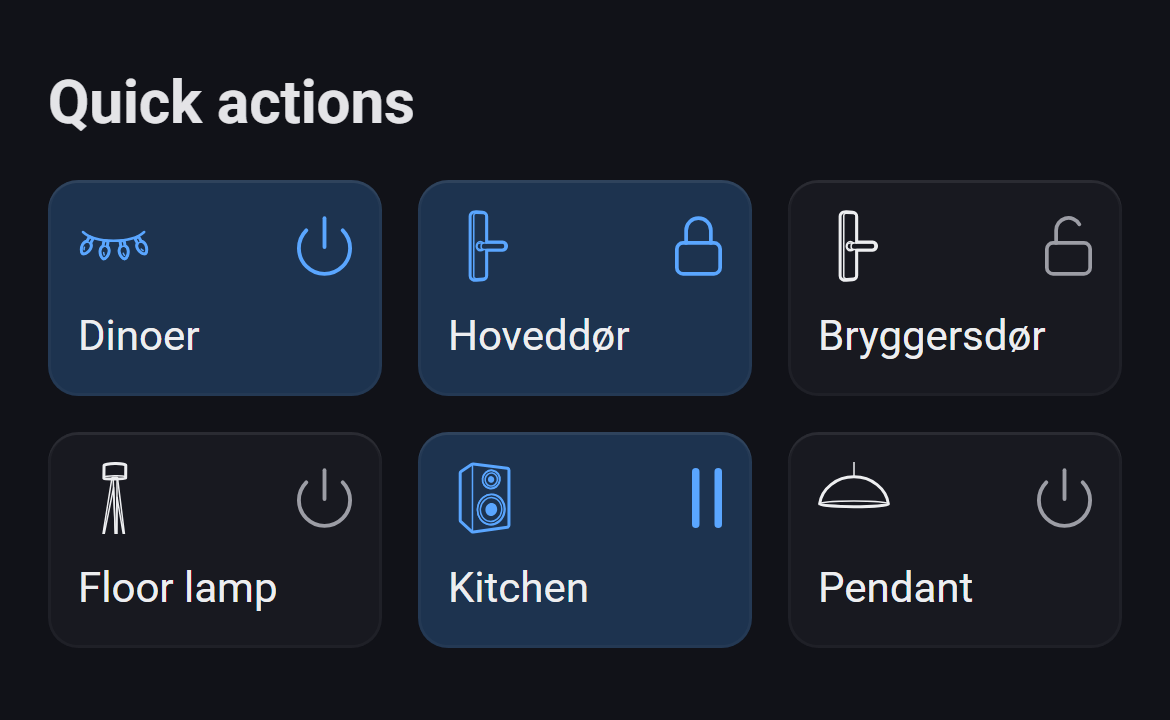
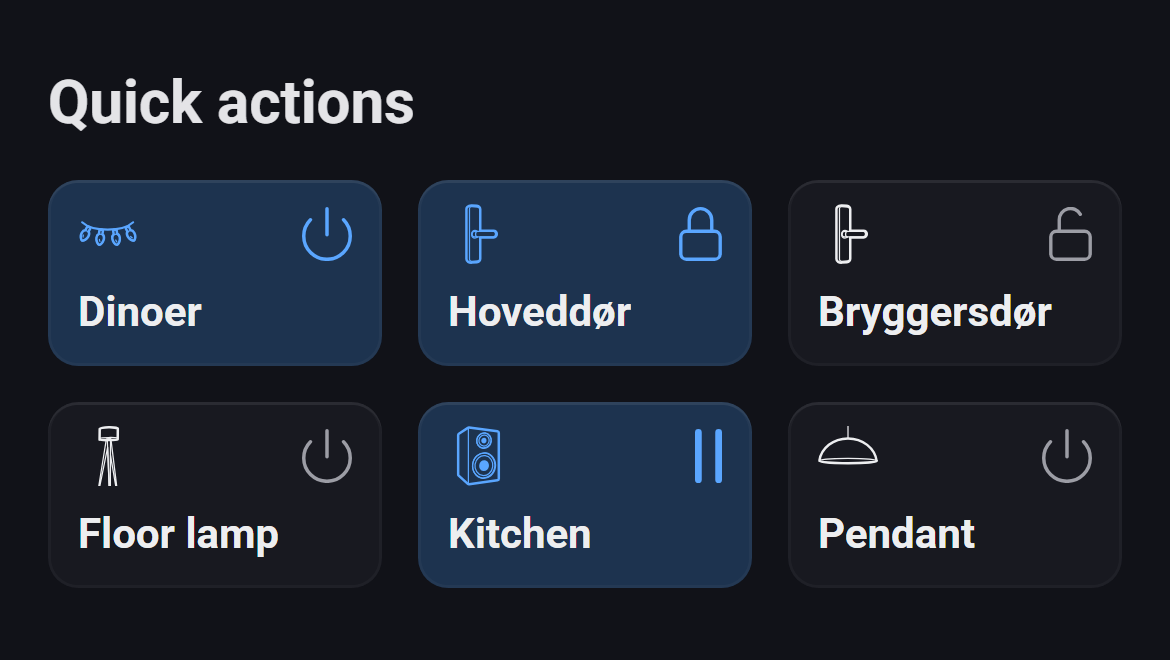
Widgets: undo Android's double text zoom; Quick Actions bold names, shorter tiles
On Android, Homey's type tokens already include the system font scale and the
WebView zooms all text by it again, so token text was 1.21x where the native
tiles are 1.1x. Each widget measures the zoom on start and divides the
--homey-font-size-*/line-height-* tokens by it.

Quick Actions: the name is 14 bold like the native temperature tiles, and the
tiles are 62 px (20/18 px icons, 8 px vertical padding, 6 px gap).
Sensor Alarms: the text sits 1 px lower, as on the native tiles.

Claude-Session: https://claude.ai/code/session_01GewyFsm3WfxTgAkZYVow9s

diff --git a/widgets/quickactions/public/widget.css b/widgets/quickactions/public/widget.css
@@ -12,7 +12,7 @@
   --qa-lighter: color-mix(in srgb, var(--qa-text) 9%, var(--qa-tile)); /* the "lighter tile" on-state */
   /* Homey's type scale: only these size/line-height pairs are used natively. */
   --qa-fs-small: var(--homey-font-size-small, 14px); --qa-lh-small: var(--homey-line-height-small, 20px);
-  --qa-regular: var(--homey-font-weight-regular, 400);
+  --qa-bold: var(--homey-font-weight-bold, 700);
   --qa-radius: 10px; /* Homey's native device tiles, measured from a phone screenshot */
 }
 /* Dark mode: each tile looks like a native device tile, darker than the default widget background. */
@@ -32,11 +32,11 @@ html, body { background: transparent !important; }
 
 .qa-grid { display: grid; grid-template-columns: repeat(3, minmax(0, 1fr)); gap: var(--homey-su-3, 12px); }
 
-/* A compact device tile (72px): the icon row and the name, with room between them. */
+/* A compact device tile (62px): the icon row and the name, with room between them. */
 .qa-tile {
   position: relative; appearance: none; border: 0; margin: 0; font: inherit; color: var(--qa-text);
-  background: var(--qa-tile); border-radius: var(--qa-radius); padding: 10px; min-width: 0;
-  display: flex; flex-direction: column; align-items: stretch; gap: var(--homey-su-2, 8px); text-align: left;
+  background: var(--qa-tile); border-radius: var(--qa-radius); padding: 8px 10px; min-width: 0;
+  display: flex; flex-direction: column; align-items: stretch; gap: 6px; text-align: left;
   cursor: pointer; -webkit-tap-highlight-color: transparent; user-select: none; -webkit-user-select: none;
   transition: background-color .15s, color .15s, transform .1s;
 }
@@ -49,7 +49,7 @@ html, body { background: transparent !important; }
 .qa-tile:disabled { cursor: default; }
 .qa-tile:disabled > * { opacity: .5; }
 
-.qa-top { display: flex; align-items: center; justify-content: space-between; height: 24px; }
+.qa-top { display: flex; align-items: center; justify-content: space-between; height: 20px; }
 /* Icons sit against the tile's padding (the device icon on the left, in line with the name; the action on
    the right), so a narrow icon like a door handle isn't centred away from the edge. */
 .qa-icon, .qa-action {
@@ -57,16 +57,16 @@ html, body { background: transparent !important; }
   -webkit-mask: var(--qa-mask) left center / contain no-repeat; mask: var(--qa-mask) left center / contain no-repeat;
 }
 .qa-action { -webkit-mask-position: right center; mask-position: right center; }
-.qa-icon { width: 24px; height: 24px; }
+.qa-icon { width: 20px; height: 20px; }
 .qa-icon.fallback {
   /* No device icon: a rounded square outline. */
   background: none; -webkit-mask: none; mask: none;
-  border: 2px solid currentColor; border-radius: 5px; width: 18px; height: 18px; margin: 3px 6px 3px 0;
+  border: 2px solid currentColor; border-radius: 4px; width: 16px; height: 16px; margin: 2px 4px 2px 0;
 }
-.qa-action { width: var(--homey-icon-size-medium, 20px); height: var(--homey-icon-size-medium, 20px); color: var(--qa-muted); }
+.qa-action { width: 18px; height: 18px; color: var(--qa-muted); }
 .qa-name {
-  /* Native device tiles' name: 14/20 regular, measured from a phone screenshot. */
-  font-size: var(--qa-fs-small); line-height: var(--qa-lh-small); font-weight: var(--qa-regular);
+  /* 14 bold like the native temperature tiles' name (and Sensor Alarms), measured from a phone screenshot. */
+  font-size: var(--qa-fs-small); line-height: var(--qa-lh-small); font-weight: var(--qa-bold);
   white-space: nowrap; overflow: hidden; text-overflow: ellipsis;
 }
 

diff --git a/widgets/heatmap/public/index.html b/widgets/heatmap/public/index.html
@@ -24,7 +24,29 @@
       return p;
     }
 
+    // Homey's Android app already scales its type tokens by the system font scale (calc(1.1 * 14px)), and
+    // the WebView's text zoom then scales all text again, so token text came out 1.21x where the native tiles
+    // are 1.1x. Divide the tokens by the zoom (measured: a 100px font computes as 110px), so they render at
+    // Homey's size. Fixed px sizes keep the zoom once, like the native text.
+    function undoTextZoom() {
+      const probe = document.createElement('span');
+      probe.style.cssText = 'position:absolute;visibility:hidden;font-size:100px';
+      document.body.appendChild(probe);
+      const zoom = parseFloat(getComputedStyle(probe).fontSize) / 100;
+      probe.remove();
+      if (!(zoom > 0) || Math.abs(zoom - 1) < 0.01) return;
+      const cs = getComputedStyle(document.body);
+      for (const size of ['small', 'default', 'large', 'xlarge', 'xxlarge']) {
+        for (const prop of ['font-size', 'line-height']) {
+          const name = `--homey-${prop}-${size}`;
+          const v = cs.getPropertyValue(name).trim();
+          if (v) document.body.style.setProperty(name, `calc((${v}) / ${zoom})`);
+        }
+      }
+    }
+
     function onHomeyReady(Homey) {
+      undoTextZoom();
       perf = loadMarks(performance.now());
       const settings = Homey.getSettings() || {};
       const deviceId = (settings.device && settings.device.id) || null;

diff --git a/widgets/thermostat/public/index.html b/widgets/thermostat/public/index.html
@@ -24,7 +24,29 @@
       return p;
     }
 
+    // Homey's Android app already scales its type tokens by the system font scale (calc(1.1 * 14px)), and
+    // the WebView's text zoom then scales all text again, so token text came out 1.21x where the native tiles
+    // are 1.1x. Divide the tokens by the zoom (measured: a 100px font computes as 110px), so they render at
+    // Homey's size. Fixed px sizes keep the zoom once, like the native text.
+    function undoTextZoom() {
+      const probe = document.createElement('span');
+      probe.style.cssText = 'position:absolute;visibility:hidden;font-size:100px';
+      document.body.appendChild(probe);
+      const zoom = parseFloat(getComputedStyle(probe).fontSize) / 100;
+      probe.remove();
+      if (!(zoom > 0) || Math.abs(zoom - 1) < 0.01) return;
+      const cs = getComputedStyle(document.body);
+      for (const size of ['small', 'default', 'large', 'xlarge', 'xxlarge']) {
+        for (const prop of ['font-size', 'line-height']) {
+          const name = `--homey-${prop}-${size}`;
+          const v = cs.getPropertyValue(name).trim();
+          if (v) document.body.style.setProperty(name, `calc((${v}) / ${zoom})`);
+        }
+      }
+    }
+
     function onHomeyReady(Homey) {
+      undoTextZoom();
       perf = loadMarks(performance.now());
       const settings = Homey.getSettings() || {};
       const deviceId = (settings.device && settings.device.id) || null;

diff --git a/widgets/weather/public/index.html b/widgets/weather/public/index.html
@@ -25,7 +25,29 @@
       return p;
     }
 
+    // Homey's Android app already scales its type tokens by the system font scale (calc(1.1 * 14px)), and
+    // the WebView's text zoom then scales all text again, so token text came out 1.21x where the native tiles
+    // are 1.1x. Divide the tokens by the zoom (measured: a 100px font computes as 110px), so they render at
+    // Homey's size. Fixed px sizes keep the zoom once, like the native text.
+    function undoTextZoom() {
+      const probe = document.createElement('span');
+      probe.style.cssText = 'position:absolute;visibility:hidden;font-size:100px';
+      document.body.appendChild(probe);
+      const zoom = parseFloat(getComputedStyle(probe).fontSize) / 100;
+      probe.remove();
+      if (!(zoom > 0) || Math.abs(zoom - 1) < 0.01) return;
+      const cs = getComputedStyle(document.body);
+      for (const size of ['small', 'default', 'large', 'xlarge', 'xxlarge']) {
+        for (const prop of ['font-size', 'line-height']) {
+          const name = `--homey-${prop}-${size}`;
+          const v = cs.getPropertyValue(name).trim();
+          if (v) document.body.style.setProperty(name, `calc((${v}) / ${zoom})`);
+        }
+      }
+    }
+
     function onHomeyReady(Homey) {
+      undoTextZoom();
       perf = loadMarks(performance.now());
       const settings = Homey.getSettings() || {};
       let readySent = false;

diff --git a/widgets/electricity/public/index.html b/widgets/electricity/public/index.html
@@ -24,7 +24,29 @@
       return p;
     }
 
+    // Homey's Android app already scales its type tokens by the system font scale (calc(1.1 * 14px)), and
+    // the WebView's text zoom then scales all text again, so token text came out 1.21x where the native tiles
+    // are 1.1x. Divide the tokens by the zoom (measured: a 100px font computes as 110px), so they render at
+    // Homey's size. Fixed px sizes keep the zoom once, like the native text.
+    function undoTextZoom() {
+      const probe = document.createElement('span');
+      probe.style.cssText = 'position:absolute;visibility:hidden;font-size:100px';
+      document.body.appendChild(probe);
+      const zoom = parseFloat(getComputedStyle(probe).fontSize) / 100;
+      probe.remove();
+      if (!(zoom > 0) || Math.abs(zoom - 1) < 0.01) return;
+      const cs = getComputedStyle(document.body);
+      for (const size of ['small', 'default', 'large', 'xlarge', 'xxlarge']) {
+        for (const prop of ['font-size', 'line-height']) {
+          const name = `--homey-${prop}-${size}`;
+          const v = cs.getPropertyValue(name).trim();
+          if (v) document.body.style.setProperty(name, `calc((${v}) / ${zoom})`);
+        }
+      }
+    }
+
     function onHomeyReady(Homey) {
+      undoTextZoom();
       const sdkAt = performance.now();
       const settings = Homey.getSettings() || {};
       let deviceId = null;

diff --git a/widgets/quickactions/public/index.html b/widgets/quickactions/public/index.html
@@ -24,7 +24,29 @@
       return p;
     }
 
+    // Homey's Android app already scales its type tokens by the system font scale (calc(1.1 * 14px)), and
+    // the WebView's text zoom then scales all text again, so token text came out 1.21x where the native tiles
+    // are 1.1x. Divide the tokens by the zoom (measured: a 100px font computes as 110px), so they render at
+    // Homey's size. Fixed px sizes keep the zoom once, like the native text.
+    function undoTextZoom() {
+      const probe = document.createElement('span');
+      probe.style.cssText = 'position:absolute;visibility:hidden;font-size:100px';
+      document.body.appendChild(probe);
+      const zoom = parseFloat(getComputedStyle(probe).fontSize) / 100;
+      probe.remove();
+      if (!(zoom > 0) || Math.abs(zoom - 1) < 0.01) return;
+      const cs = getComputedStyle(document.body);
+      for (const size of ['small', 'default', 'large', 'xlarge', 'xxlarge']) {
+        for (const prop of ['font-size', 'line-height']) {
+          const name = `--homey-${prop}-${size}`;
+          const v = cs.getPropertyValue(name).trim();
+          if (v) document.body.style.setProperty(name, `calc((${v}) / ${zoom})`);
+        }
+      }
+    }
+
     function onHomeyReady(Homey) {
+      undoTextZoom();
       const sdkAt = performance.now();
       const settings = Homey.getSettings() || {};
       let deviceIds = [];

diff --git a/widgets/sensoralarms/public/index.html b/widgets/sensoralarms/public/index.html
@@ -24,7 +24,29 @@
       return p;
     }
 
+    // Homey's Android app already scales its type tokens by the system font scale (calc(1.1 * 14px)), and
+    // the WebView's text zoom then scales all text again, so token text came out 1.21x where the native tiles
+    // are 1.1x. Divide the tokens by the zoom (measured: a 100px font computes as 110px), so they render at
+    // Homey's size. Fixed px sizes keep the zoom once, like the native text.
+    function undoTextZoom() {
+      const probe = document.createElement('span');
+      probe.style.cssText = 'position:absolute;visibility:hidden;font-size:100px';
+      document.body.appendChild(probe);
+      const zoom = parseFloat(getComputedStyle(probe).fontSize) / 100;
+      probe.remove();
+      if (!(zoom > 0) || Math.abs(zoom - 1) < 0.01) return;
+      const cs = getComputedStyle(document.body);
+      for (const size of ['small', 'default', 'large', 'xlarge', 'xxlarge']) {
+        for (const prop of ['font-size', 'line-height']) {
+          const name = `--homey-${prop}-${size}`;
+          const v = cs.getPropertyValue(name).trim();
+          if (v) document.body.style.setProperty(name, `calc((${v}) / ${zoom})`);
+        }
+      }
+    }
+
     function onHomeyReady(Homey) {
+      undoTextZoom();
       const sdkAt = performance.now();
       const settings = Homey.getSettings() || {};
       let deviceIds = [];

diff --git a/widgets/sensoralarms/public/widget.css b/widgets/sensoralarms/public/widget.css
@@ -34,10 +34,11 @@ html, body { background: transparent !important; }
 /*
  * Like the native temperature tiles (measured from phone screenshots at 3x): 52px high, a 24px icon, then
  * the name over the alarm text, both 14px on an 18px line (tighter than Homey's 14/20).
+ * The text sits 1px below centre (7/5 padding), as the native name does.
  */
 .sa-tile {
   position: relative; display: flex; align-items: center; gap: 13px; min-width: 0; height: 52px;
-  padding: 6px 12px 6px 10px; background: var(--sa-tile); border-radius: var(--sa-radius);
+  padding: 7px 12px 5px 10px; background: var(--sa-tile); border-radius: var(--sa-radius);
   transition: background-color .2s;
 }
 .sa-icon {

diff --git a/CLAUDE.md b/CLAUDE.md
@@ -90,8 +90,8 @@ How this project uses it:
 ## Device Quick Actions widget
 - Half-height tiles for several devices (the `devices` setting with `singular: false`, read with `Homey.getDeviceIds()`), 3 per row. `lib/QuickActionService.ts` owns it. The widget is `transparent`, so each tile sits on the dashboard like a native one.
 - The whole tile triggers the device's quick action and shows its state. The `activeStyle` setting picks how: `tint` (default; a blue-tinted tile with blue icons) or `lighter` (a lighter grey tile). There's no circle around the quick-action icon.
-- The name is 14/20 regular, like the native device tiles' name (measured from a phone screenshot).
-- Layout: 10 px padding and an 8 px gap between the icon row and the name (72 px tiles). The device icon (24 px) is masked `left center` so narrow icons line up with the name; the action icon (20 px) is masked `right center`.
+- The name is 14/20 bold, like the native temperature tiles' name and Sensor Alarms (measured from a phone screenshot).
+- Layout: 8/10 px padding and a 6 px gap between the icon row and the name (62 px tiles; the user asked for less tall). The device icon (20 px) is masked `left center` so narrow icons line up with the name; the action icon (18 px) is masked `right center`.
 - The built-in glyphs' viewBoxes are cropped to their ink, with a 1.2 stroke, so they fill their box and match the library icons' ~1 px line.
 - The quick action is `ui.quickActionOverride` (the user's choice; `.none` turns it off) or else `ui.quickAction`. Locks only have the override (`locked`).
 - Taps come from the touch events (a touch ending within 10 px of where it started), with `click` kept for mouse and keyboard. A drag is left alone, so the dashboard still scrolls. Tiles do nothing in the dashboard's edit mode.
@@ -105,7 +105,7 @@ How this project uses it:
 
 ## Sensor Alarms widget
 - Tiles for several devices (the `devices` setting, `singular: false`, no filter so custom alarm capabilities count), 2 per row, in the style of Homey's native temperature tiles. `lib/SensorAlarmService.ts` owns it. The widget is `transparent`, like Quick Actions.
-- A tile: the device icon (24 px, muted), the name (14 bold) and the alarm text (14 regular, muted), both on an 18px line: deliberate exceptions to Homey's scale, measured from the native tiles. The tile is `#2B2C36` in dark mode, flat, with a 10px radius and 52 px high, all measured from a phone screenshot of the native temperature tiles.
+- A tile: the device icon (24 px, muted), the name (14 bold) and the alarm text (14 regular, muted), both on an 18px line: deliberate exceptions to Homey's scale, measured from the native tiles. The tile is `#2B2C36` in dark mode, flat, with a 10px radius and 52 px high, and the text sits 1 px below centre (7/5 px padding), all measured from a phone screenshot of the native temperature tiles (matched on the phone, 2026-10-04).
 - Alarms are every boolean capability whose base id starts with `alarm_` (`alarmCaps()`), custom ones included (an Airthings' `alarm_radon`). Each one carries its `title` (localised by Homey) and `state`: true for `alarm_motion`/`alarm_contact` and the cameras' `alarm_person`/`alarm_vehicle`/`alarm_pet`. Those only count with the `includeStates` checkbox (off by default); the widget filters, not the service.
 - Active alarms are counted once per title without a trailing `(…)`: the Airthings reports radon three times (`Radon alarm`, `… (Bq/m³)`, `… (pCi/L)`).
 - Text: `No alarm`, the one active alarm's title, or `__count__ alarms` (the user chose a count over a list). Without counted alarm capabilities: `No alarm sensors`. Any active alarm makes the tile red (`.alarm`: a red-tinted tile, red icon and text); the user chose always red over a colour per alarm type.
@@ -175,6 +175,7 @@ How this project uses it:
 - The meter is a frient EMIZB-141 ("Electricity Meter", id `3450f8d3-…`). It reports `measure_power` about every 10 s, and Homey doesn't re-emit unchanged values.
 - Widget `devices` setting (`type: global, singular, filter capabilities measure_power`); read it with `Homey.getDeviceIds()`.
 - A widget can't open Homey's native device sheet. On the phone app (2026-10-03) the widget `Homey` object has only the documented methods (`ready api on getSettings getWidgetInstanceId getDeviceIds setHeight popup hapticFeedback __`); `popup(url)` just opens an in-app browser. A web search found no other route either. So the Sensor Alarms tiles are display-only.
+- Android text zoom (measured on a Galaxy Tab, 2026-10-04): Homey's tokens already include the system font scale (`--homey-font-size-small` = `calc(1.1 * 14px)`), and the WebView zooms all text by it again (a 100px font computes as 110px; `text-size-adjust: none` doesn't help). So token text was 1.21x against the native tiles' 1.1x. Each widget's `index.html` runs `undoTextZoom()` first in `onHomeyReady`: it divides the `--homey-font-size-*`/`--homey-line-height-*` tokens by the measured zoom (inline on `body`). Fixed px sizes keep the zoom once, like native text. iOS has no zoom (factor 1).
 - Widget preview images are 1024×1024. App images are 250×175, 500×350 and 1000×700.
 
 ## Localization
